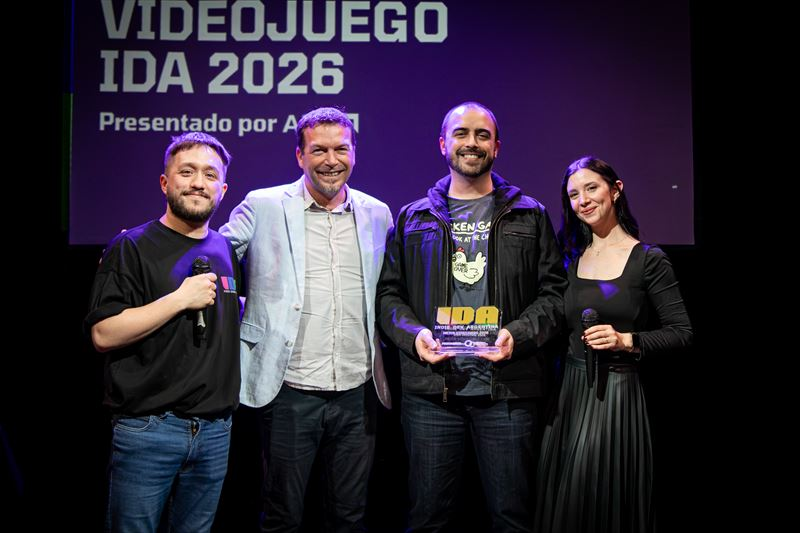
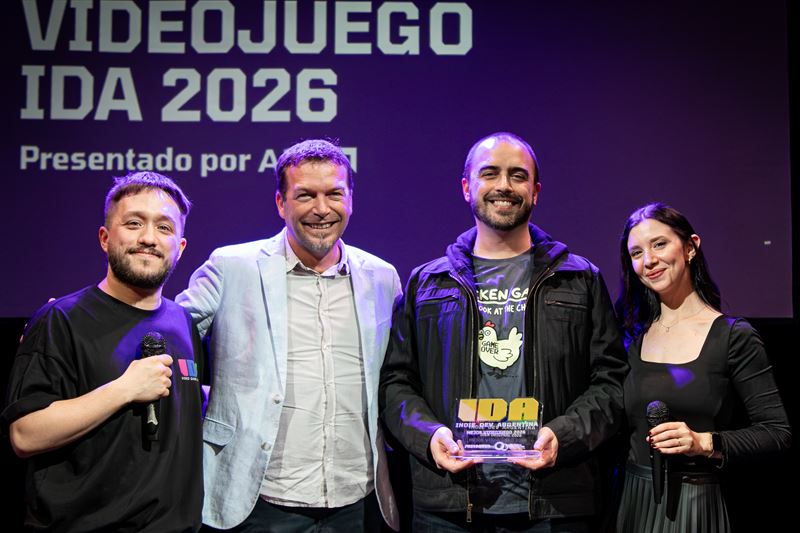
Sin etiquetas PLACEHOLDER en la web y foto de la entrega de Mejor Videojuego 2026 más cerca

diff --git a/js/main.js b/js/main.js
@@ -34,7 +34,6 @@
   function esc(s) { return String(s == null ? '' : s).replace(/[&<>"']/g, function (c) { return { '&': '&amp;', '<': '&lt;', '>': '&gt;', '"': '&quot;', "'": '&#39;' }[c]; }); }
   function num(n) { return Number(n).toLocaleString(lang === 'en' ? 'en-US' : 'es-AR'); }
   function numK(n) { return n < 1000 ? num(n) : (Math.round(n / 100) / 10).toLocaleString(lang === 'en' ? 'en-US' : 'es-AR') + 'k'; }
-  function ph(extra) { return '<span class="ph">' + esc(U('ph')) + (extra ? ' · ' + esc(extra) : '') + '</span>'; }
   function photo(name, sizes) {
     return '<img src="' + IMG + 'photos/' + name + '-800.jpg" srcset="' + IMG + 'photos/' + name + '-800.jpg 800w, ' + IMG + 'photos/' + name + '.jpg 1600w" sizes="' + (sizes || '(max-width: 760px) 100vw, 25vw') + '" alt="" loading="lazy" decoding="async" width="800" height="533">';
   }
@@ -238,8 +237,7 @@
     if (!aw.length) { el.innerHTML = '<p>' + esc(U('aw.none')) + '</p>'; return; }
     var feat = aw.filter(function (a) { return a.featured; });
     // el botón 'Ver todos los premios' va en la fila del título (index.html)
-    el.innerHTML = winnersGrid(feat.length ? feat : aw) +
-      (cur.placeholder && cur.placeholder.awards ? '<div class="winners__foot">' + ph(U('v2.aw.ph')) + '</div>' : '');
+    el.innerHTML = winnersGrid(feat.length ? feat : aw);
   };
   // Página de premios: todos los premios, edición por edición
   R.awardsAll = function (el) {
@@ -247,7 +245,6 @@
       return '<section class="section' + (i % 2 ? ' dark' : '') + '" id="premios-' + e.year + '"><div class="wrap">' +
         '<div class="yhead"><span class="yhead__year">' + e.year + '</span><h2 class="display">Premios IDA ' + e.year + '</h2>' +
         '<a class="u-link" href="ediciones.html#ed-' + e.year + '">Ver la edición ' + e.year + '</a></div>' +
-        (e.placeholder && e.placeholder.awards ? '<p class="note">' + ph(U('v2.aw.ph')) + '</p>' : '') +
         awardsBlock(e) + '</div></section>';
     }).join('');
   };
@@ -288,7 +285,7 @@
     var withVideo = D.editions.filter(function (e) { return e.video && !(e.placeholder && e.placeholder.video); });
     var cards = [];
     if (cur.placeholder && cur.placeholder.video || !cur.video) {
-      cards.push('<div class="vcard vcard--soon">' + photo('g26-05') + '<span class="vcard__play" aria-hidden="true"></span><span class="vcard__label">' + esc(U('video.soon', { y: cur.year })) + '</span>' + ph(U('ph.video')) + '</div>');
+      cards.push('<div class="vcard vcard--soon">' + photo('g26-05') + '<span class="vcard__play" aria-hidden="true"></span><span class="vcard__label">' + esc(U('video.soon', { y: cur.year })) + '</span></div>');
     }
     withVideo.slice(0, 2).forEach(function (e) {
       cards.push('<button class="vcard" type="button" data-yt="' + e.video + '" aria-label="' + esc(U('video.play', { y: e.year })) + '"><img src="https://i.ytimg.com/vi/' + e.video + '/hq720.jpg" alt="" loading="lazy"><span class="vcard__play" aria-hidden="true"></span><span class="vcard__label">' + esc(videoLabel(e)) + '</span></button>');
@@ -301,8 +298,7 @@
   R.photos = function (el) {
     // la primera foto ya está en el hero
     var list = (cur.photos || []).filter(function (p) { return p !== 'g26-01'; }).slice(0, 4);
-    el.innerHTML = '<div class="photos">' + list.map(function (p) { return galLink(cur.photos, cur.photos.indexOf(p), photo(p)); }).join('') + '</div>' +
-      (cur.placeholder && cur.placeholder.photos ? '<p class="note">' + ph(U('ph.photos')) + '</p>' : '');
+    el.innerHTML = '<div class="photos">' + list.map(function (p) { return galLink(cur.photos, cur.photos.indexOf(p), photo(p)); }).join('') + '</div>';
   };
 
   R.past = function (el) {
@@ -370,8 +366,7 @@
     var items = [[D.editions.length, '', 'Ediciones'], [t.attendees, '+', 'Asistentes', 1], [t.games, '', 'Videojuegos'], [t.talks, '', 'Charlas'], [t.speakers, '', 'Speakers']];
     el.innerHTML = '<div class="stats">' + items.map(function (i) {
       return '<div class="stat"><b data-count="' + i[0] + '" data-prefix="' + i[1] + '"' + (i[3] ? ' data-k="1"' : '') + '>' + i[1] + (i[3] ? numK(i[0]) : num(i[0])) + '</b><span>' + esc(i[2]) + '</span></div>';
-    }).join('') + '</div>' +
-      (cur.placeholder && cur.placeholder.stats ? '<p class="statband__note">' + ph('incluye datos provisorios de ' + cur.year) + '</p>' : '');
+    }).join('') + '</div>';
     countUp(el);
   };
 
@@ -398,7 +393,7 @@
         var pre = k === 'attendees' ? '+' : '';
         return '<div><b>' + pre + num(e.stats[k]) + '</b><span>' + esc(U('stat.' + k)) + '</span></div>';
       }).join('');
-      var gallery = e.photos.length ? '<div class="ed__block"><h3 class="ed__label">Galería' + (P.photos ? ' ' + ph(U('ph.photos')) : '') + '</h3><div class="gallery">' +
+      var gallery = e.photos.length ? '<div class="ed__block"><h3 class="ed__label">Galería</h3><div class="gallery">' +
         e.photos.slice(0, 9).map(function (p, i) {
           var more = i === 8 && e.photos.length > 9 ? e.photos.length - 9 : 0; // la última muestra cuántas quedan: el visor tiene todas
           return galLink(e.photos, i, photo(p, '(max-width: 760px) 50vw, 30vw') + (more ? '<span class="gallery__more">+' + more + '</span>' : ''), more ? U('lb.more', { n: e.photos.length }) : '');
@@ -410,13 +405,13 @@
         e.games.map(function (g) { return '<li>' + esc(g) + '</li>'; }).join('') + '</ul></div>';
       var video = e.video && !P.video && e.archiveVideo !== false ? '<div class="ed__block"><h3 class="ed__label">' + (e.videoLabel ? 'Video' : 'Aftermovie') + '</h3><button class="vcard ed__video" type="button" data-yt="' + e.video + '" aria-label="' + esc(U('video.play', { y: e.year })) + '">' +
         '<img src="https://i.ytimg.com/vi/' + e.video + '/hq720.jpg" alt="" loading="lazy"><span class="vcard__play" aria-hidden="true"></span><span class="vcard__label">' + esc(videoLabel(e)) + '</span></button></div>' : '';
-      var awards = e.awards.length && !sc ? '<div class="ed__block"><h3 class="ed__label">Premios IDA' + (P.awards ? ' ' + ph(U('v2.aw.ph')) : '') + '</h3>' + awardsBlock(e) + '</div>' : '';
+      var awards = e.awards.length && !sc ? '<div class="ed__block"><h3 class="ed__label">Premios IDA</h3>' + awardsBlock(e) + '</div>' : '';
       return '<section class="edition dark' + (i % 2 ? ' dark--ink' : '') + '" id="ed-' + e.year + '"><div class="wrap">' +
         '<header class="ed__head"><span class="ed__year">' + e.year + '</span><div><p class="ed__ord">' + esc(T(e.ord)) + ' · ' + esc(T(e.tag)) + '</p>' +
           '<p class="ed__meta">' + esc(T(e.date)) + ' · ' + esc(e.hours) + ' · ' + esc(v.name || '') + (v.address ? ', ' + esc(v.address) : '') + '</p></div></header>' +
         '<div class="ed__intro"><p class="lead">' + esc(T(e.summary)) + '</p><ul class="topics">' + e.highlights.map(function (h) { return '<li>' + esc(T(h)) + '</li>'; }).join('') + '</ul></div>' +
         '<div class="ed__stats">' + stats + '</div>' +
-        ((e.statsNote || P.stats) ? '<p class="note">' + (e.statsNote ? esc(T(e.statsNote)) + ' ' : '') + (P.stats ? ph(U('ph.numbers')) : '') + '</p>' : '') +
+        (e.statsNote ? '<p class="note">' + esc(T(e.statsNote)) + '</p>' : '') +
         (e.guests && e.guests.length ? '<div class="ed__block"><h3 class="ed__label">Speakers internacionales</h3><div class="guests">' + e.guests.map(function (g) {
           // Tarjeta de speaker: foto redonda (o iniciales), nombre, cargo, bandera y país; debajo, la charla
           var initials = g.name.split(' ').map(function (w) { return w.charAt(0); }).join('').slice(0, 2);

diff --git a/sponsors.html b/sponsors.html
@@ -16,7 +16,7 @@
   <link rel="preconnect" href="https://fonts.googleapis.com">
   <link rel="preconnect" href="https://fonts.gstatic.com" crossorigin>
   <link href="https://fonts.googleapis.com/css2?family=Saira+Condensed:wght@700;800&family=Anton&family=Tomorrow:wght@500;600;700&family=DM+Sans:ital,opsz,wght@0,9..40,400;0,9..40,500;0,9..40,700;1,9..40,400&display=swap" rel="stylesheet">
-  <link rel="stylesheet" href="css/style.css?v=202611082046">
+  <link rel="stylesheet" href="css/style.css?v=202611082102">
 </head>
 <body data-page="sponsors" data-title-es="Sponsors · IDA · Indie Dev Argentina" data-title-en="Sponsors · IDA · Indie Dev Argentina">
 
@@ -35,7 +35,6 @@
         <div class="phero__ctas">
           <a class="pill" href="#contacto">Hablemos</a>
           <a class="pill pill--ghost" href="docs/IDA-media-kit.pdf" download>Descargar media kit</a>
-          <span class="ph">Placeholder</span>
         </div>
       </div>
       <img class="phero__img" src="img/photos/sponsors-26-800.jpg" srcset="img/photos/sponsors-26-800.jpg 800w, img/photos/sponsors-26.jpg 1600w" sizes="(max-width: 960px) 100vw, 45vw" alt="El público de IDA 2026 llena el hall del Centro Cultural de la Cooperación y prueba los videojuegos del showcase" width="800" height="533">
@@ -85,7 +84,7 @@
   <!-- ============ NIVELES ============ -->
   <section class="section">
     <div class="wrap">
-      <div class="yhead"><h2 class="display">Elegí cómo sumarte</h2><span class="ph">Placeholder · beneficios a definir</span></div>
+      <div class="yhead"><h2 class="display">Elegí cómo sumarte</h2></div>
       <div class="table-scroll">
         <table class="tier-table">
           <thead>
@@ -149,9 +148,9 @@
 
 <div id="v2-foot"></div>
 
-<script src="data/ediciones.js?v=202611082046"></script>
-<script src="js/i18n.js?v=202611082046"></script>
-<script src="js/textos.js?v=202611082046"></script>
-<script src="js/main.js?v=202611082046"></script>
+<script src="data/ediciones.js?v=202611082102"></script>
+<script src="js/i18n.js?v=202611082102"></script>
+<script src="js/textos.js?v=202611082102"></script>
+<script src="js/main.js?v=202611082102"></script>
 </body>
 </html>

diff --git a/premios.html b/premios.html
@@ -16,7 +16,7 @@
   <link rel="preconnect" href="https://fonts.googleapis.com">
   <link rel="preconnect" href="https://fonts.gstatic.com" crossorigin>
   <link href="https://fonts.googleapis.com/css2?family=Saira+Condensed:wght@700;800&family=Anton&family=Tomorrow:wght@500;600;700&family=DM+Sans:ital,opsz,wght@0,9..40,400;0,9..40,500;0,9..40,700;1,9..40,400&display=swap" rel="stylesheet">
-  <link rel="stylesheet" href="css/style.css?v=202611082046">
+  <link rel="stylesheet" href="css/style.css?v=202611082102">
 </head>
 <body data-page="premios" data-title-es="Premios IDA · Indie Dev Argentina" data-title-en="IDA Awards · Indie Dev Argentina">
 
@@ -47,7 +47,7 @@
         <h2 class="display">De la convocatoria al escenario</h2>
         <ul class="topics">
           <li><b>El showcase</b> – Participan los videojuegos seleccionados para el showcase de cada edición.</li>
-          <li><b>Las categorías</b> – Se anuncian antes del evento, junto con el jurado. <span class="ph">Placeholder</span></li>
+          <li><b>Las categorías</b> – Se anuncian antes del evento, junto con el jurado.</li>
           <li><b>La gala</b> – Los ganadores se conocen en la entrega de premios, sobre el escenario principal.</li>
           <li><b>Rumbo a EVA</b> – En 2026, los ganadores tuvieron un lugar asegurado en el showcase de EVA, gracias a ADVA.</li>
         </ul>
@@ -60,9 +60,9 @@
 
 <div id="v2-foot"></div>
 
-<script src="data/ediciones.js?v=202611082046"></script>
-<script src="js/i18n.js?v=202611082046"></script>
-<script src="js/textos.js?v=202611082046"></script>
-<script src="js/main.js?v=202611082046"></script>
+<script src="data/ediciones.js?v=202611082102"></script>
+<script src="js/i18n.js?v=202611082102"></script>
+<script src="js/textos.js?v=202611082102"></script>
+<script src="js/main.js?v=202611082102"></script>
 </body>
 </html>

diff --git a/css/style.css b/css/style.css
@@ -110,7 +110,6 @@ button, input { font: inherit; color: inherit; }
 }
 .u-link:hover { color: var(--mag-ink); }
 .band--dark .u-link { color: #fff; }
-.ph { display: inline-block; padding: 2px 8px; border: 1px dashed #b39500; background: #fff7b0; color: #5a4a00; font: 700 .66rem/1.5 var(--f-head); text-transform: uppercase; letter-spacing: .06em; border-radius: 4px; }
 
 /* ---------- Barra de info (magenta) + marca y nav (negra) ---------- */
 .masthead { position: sticky; top: calc(-1 * var(--brand-h)); z-index: 50; color: #fff; }
@@ -277,7 +276,6 @@ a.winner__pic:hover img, a.topwin__pic:hover img { transform: scale(1.04); }
 .vcard__play { position: absolute; left: 50%; top: 50%; width: 68px; height: 68px; margin: -34px 0 0 -34px; border-radius: 50%; background: #fff; z-index: 1; }
 .vcard__play::after { content: ''; position: absolute; left: 27px; top: 21px; border-left: 20px solid var(--ink); border-top: 13px solid transparent; border-bottom: 13px solid transparent; }
 .vcard__label { position: absolute; left: 16px; bottom: 20px; z-index: 1; background: var(--ink); padding: 6px 10px; font: 700 .74rem/1.2 var(--f-head); text-transform: uppercase; letter-spacing: .06em; }
-.vcard .ph { position: absolute; right: 14px; top: 14px; z-index: 1; }
 .vcard--frame { cursor: auto; }
 .vcard--soon { cursor: default; }
 

diff --git a/index.html b/index.html
@@ -16,7 +16,7 @@
   <link rel="preconnect" href="https://fonts.googleapis.com">
   <link rel="preconnect" href="https://fonts.gstatic.com" crossorigin>
   <link href="https://fonts.googleapis.com/css2?family=Saira+Condensed:wght@700;800&family=Anton&family=Tomorrow:wght@500;600;700&family=DM+Sans:ital,opsz,wght@0,9..40,400;0,9..40,500;0,9..40,700;1,9..40,400&display=swap" rel="stylesheet">
-  <link rel="stylesheet" href="css/style.css?v=202611082046">
+  <link rel="stylesheet" href="css/style.css?v=202611082102">
 </head>
 <body data-page="home" data-title-es="IDA · Indie Dev Argentina · Exposición de videojuegos independientes" data-title-en="IDA · Indie Dev Argentina · Independent videogame expo">
 
@@ -196,9 +196,9 @@
 <!-- Pie ("Gracias por jugar", hashtag y redes): lo arma js/main.js -->
 <div id="v2-foot"></div>
 
-<script src="data/ediciones.js?v=202611082046"></script>
-<script src="js/i18n.js?v=202611082046"></script>
-<script src="js/textos.js?v=202611082046"></script>
-<script src="js/main.js?v=202611082046"></script>
+<script src="data/ediciones.js?v=202611082102"></script>
+<script src="js/i18n.js?v=202611082102"></script>
+<script src="js/textos.js?v=202611082102"></script>
+<script src="js/main.js?v=202611082102"></script>
 </body>
 </html>

diff --git a/ediciones.html b/ediciones.html
@@ -16,7 +16,7 @@
   <link rel="preconnect" href="https://fonts.googleapis.com">
   <link rel="preconnect" href="https://fonts.gstatic.com" crossorigin>
   <link href="https://fonts.googleapis.com/css2?family=Saira+Condensed:wght@700;800&family=Anton&family=Tomorrow:wght@500;600;700&family=DM+Sans:ital,opsz,wght@0,9..40,400;0,9..40,500;0,9..40,700;1,9..40,400&display=swap" rel="stylesheet">
-  <link rel="stylesheet" href="css/style.css?v=202611082046">
+  <link rel="stylesheet" href="css/style.css?v=202611082102">
 </head>
 <body data-page="ediciones" data-title-es="Ediciones · IDA · Indie Dev Argentina" data-title-en="Editions · IDA · Indie Dev Argentina">
 
@@ -61,9 +61,9 @@
 
 <div id="v2-foot"></div>
 
-<script src="data/ediciones.js?v=202611082046"></script>
-<script src="js/i18n.js?v=202611082046"></script>
-<script src="js/textos.js?v=202611082046"></script>
-<script src="js/main.js?v=202611082046"></script>
+<script src="data/ediciones.js?v=202611082102"></script>
+<script src="js/i18n.js?v=202611082102"></script>
+<script src="js/textos.js?v=202611082102"></script>
+<script src="js/main.js?v=202611082102"></script>
 </body>
 </html>

diff --git a/js/i18n.js b/js/i18n.js
@@ -5,11 +5,6 @@
 window.IDA_I18N = {
   ui: {
     es: {
-      'ph': 'Placeholder',
-      'ph.stats': 'incluye datos provisorios de {y}',
-      'ph.photos': 'fotos de ejemplo',
-      'ph.video': 'video pendiente',
-      'ph.numbers': 'números provisorios',
       'next.label': 'Próxima edición',
       'cd.days': 'Días', 'cd.hours': 'Horas', 'cd.min': 'Minutos',
       'stat.editions': 'Ediciones', 'stat.attendees': 'Asistentes', 'stat.games': 'Juegos exhibidos', 'stat.talks': 'Charlas', 'stat.speakers': 'Speakers',
@@ -64,11 +59,6 @@ window.IDA_I18N = {
       'lb.close': 'Cerrar', 'lb.prev': 'Foto anterior', 'lb.next': 'Foto siguiente'
     },
     en: {
-      'ph': 'Placeholder',
-      'ph.stats': 'includes provisional {y} figures',
-      'ph.photos': 'sample photos',
-      'ph.video': 'video pending',
-      'ph.numbers': 'provisional figures',
       'next.label': 'Next edition',
       'cd.days': 'Days', 'cd.hours': 'Hours', 'cd.min': 'Minutes',
       'stat.editions': 'Editions', 'stat.attendees': 'Attendees', 'stat.games': 'Games shown', 'stat.talks': 'Talks', 'stat.speakers': 'Speakers',

diff --git a/js/textos.js b/js/textos.js
@@ -75,7 +75,6 @@ window.IDA_V2 = {
       'news.invalid': 'Revisá el email: parece que falta algo.',
       'news.err': 'No pudimos enviarlo desde acá: te abrimos la página de Press Over para terminar.',
       'news.note': 'Es el newsletter de <a href="{url}" target="_blank" rel="noopener">Press Over</a> en Substack: todas las novedades de IDA llegan por ahí.',
-      'v2.aw.ph': 'ganadores a confirmar',
       'v2.aw.all': 'Ver todos los premios',
       'v2.vid.after': 'Aftermovie IDA {y}',
       'v2.past.title': 'Ediciones anteriores',
@@ -105,7 +104,6 @@ window.IDA_V2 = {
       'news.err': 'We couldn’t send it from here, so we opened the Press Over page for you to finish.',
       'news.note': 'It’s the <a href="{url}" target="_blank" rel="noopener">Press Over</a> newsletter on Substack (in Spanish): all IDA news goes out there.',
       'v2.ann.soon.cta': 'Notify me',
-      'v2.aw.ph': 'winners to be confirmed',
       'v2.aw.all': 'See all awards',
       'v2.vid.after': 'IDA {y} aftermovie',
       'v2.past.title': 'Past editions',

diff --git a/data/ediciones.js b/data/ediciones.js
@@ -19,7 +19,7 @@
   `guests`: speakers internacionales; `flag` = código de país (img/flags/<código>.png), `img` = foto cuadrada en img/photos (sin foto, van las iniciales).
   Sponsors: cada grupo es una lista de ids, o una lista de niveles ([[grandes], [resto]]) cuando
   algunos aportaron más: el primer nivel se muestra más grande y cada nivel, con logos del mismo tamaño.
-  `placeholder: true` muestra la etiqueta PLACEHOLDER en la web: sacarla cuando el dato sea real.
+  `placeholder`: marca datos provisorios (no se muestra en la web; `video: true` oculta el video de esa edición).
 */
 window.IDA_DATA = {
 
